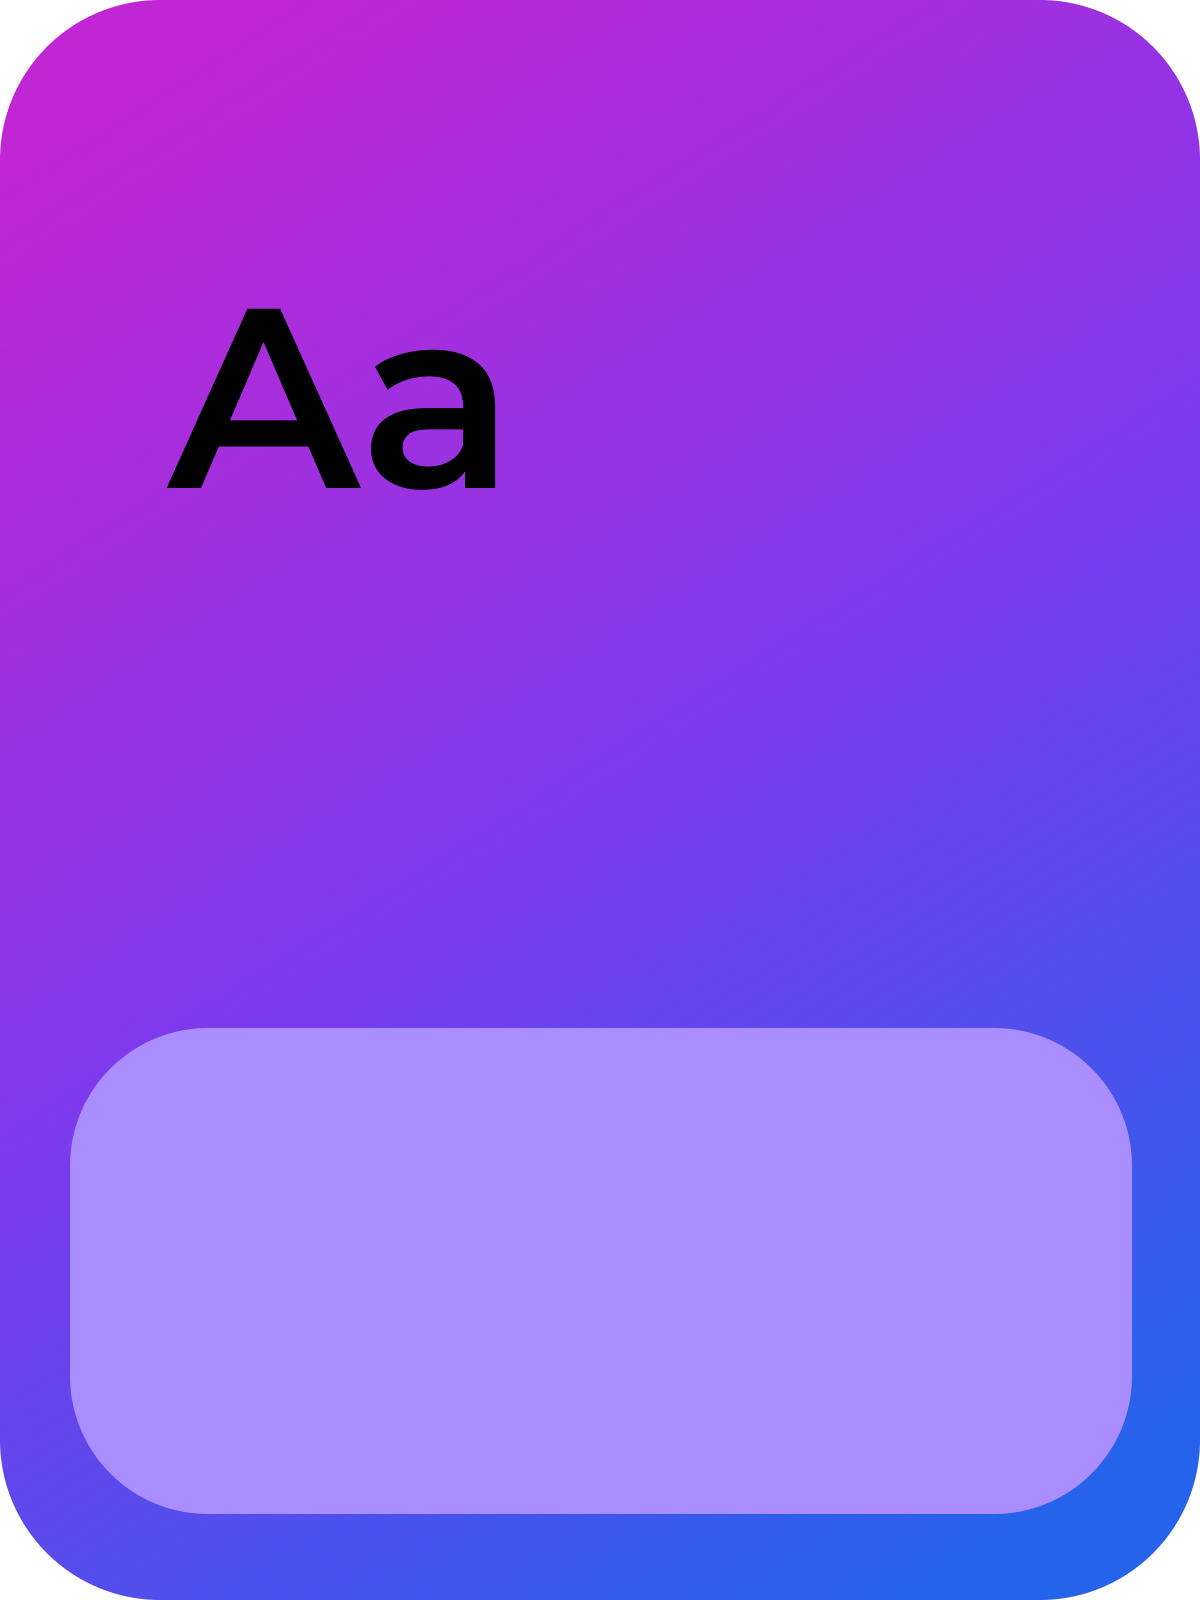
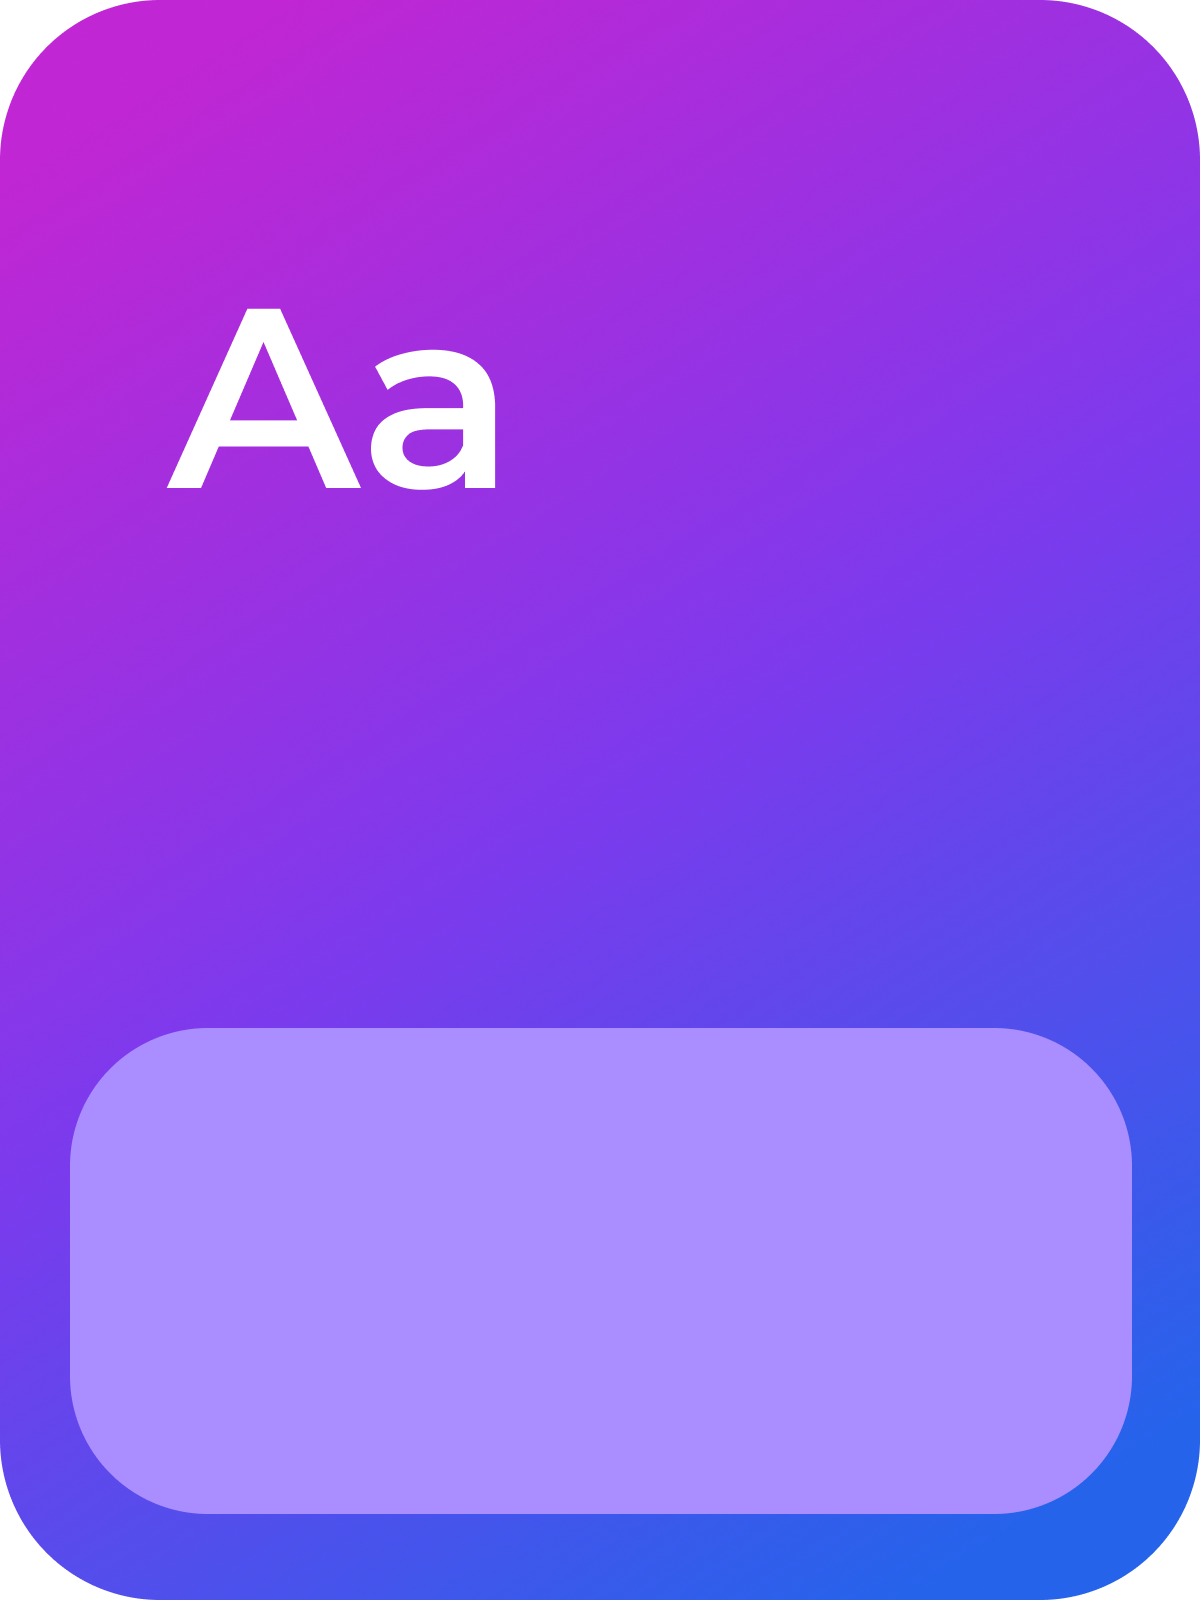
style(templatePresets): update button color schemes for better contrast
Modified button colors and text colors across multiple templates to improve visual contrast and accessibility. Changes include updating vibrant color combinations and ensuring better readability.

Changed region(s): [[0.1233, 0.1875, 0.4317, 0.3125]]

diff --git a/src/utils/templatePresets.ts b/src/utils/templatePresets.ts
@@ -62,7 +62,7 @@ export function getTemplatePreset(templateId: string) {
 				customTextColor: "#ffffff",
 				customFont: "font-space-grotesk",
 				customButtonColor: "#daff00",
-				customButtonTextColor: "#599f6d",
+				customButtonTextColor: "#000000",
 				customButtonStyle: "solid",
 				customButtonFill: "filled",
 				customButtonCorners: "12",
@@ -130,7 +130,7 @@ export function getTemplatePreset(templateId: string) {
 				customBackgroundVideoUrl: "",
 				customTextColor: "#ffffff",
 				customFont: "font-satoshi",
-				customButtonColor: "#facc15",
+				customButtonColor: "#DF55E1",
 				customButtonTextColor: "#ffffff",
 				customButtonStyle: "solid",
 				customButtonFill: "outlined",
@@ -165,7 +165,7 @@ export function getTemplatePreset(templateId: string) {
 				customTextColor: "#6ee7b7",
 				customFont: "font-satoshi",
 				customButtonColor: "#10b981",
-				customButtonTextColor: "#6ee7b7",
+				customButtonTextColor: "#02482C",
 				customButtonStyle: "solid",
 				customButtonFill: "filled",
 				customButtonCorners: "12",
@@ -181,8 +181,8 @@ export function getTemplatePreset(templateId: string) {
 				customBackgroundVideoUrl: "",
 				customTextColor: "#6d4c41",
 				customFont: "font-playfair-display",
-				customButtonColor: "#f5f0e8",
-				customButtonTextColor: "#6d4c41",
+				customButtonColor: "#745E3A",
+				customButtonTextColor: "#ffffff",
 				customButtonStyle: "solid",
 				customButtonFill: "outlined",
 				customButtonCorners: "12",
@@ -269,7 +269,7 @@ export function getTemplatePreset(templateId: string) {
 				customBackgroundVideoUrl: "",
 				customTextColor: "#ffffff",
 				customFont: "font-satoshi",
-				customButtonColor: "",
+				customButtonColor: "#AA8EFF",
 				customButtonTextColor: "#000000",
 				customButtonStyle: "solid",
 				customButtonFill: "gradient",
